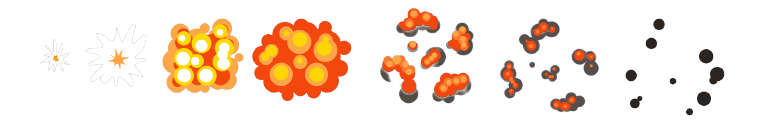
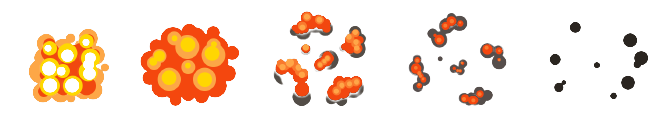
Agregue animacion de colision

diff --git a/css/styles.css b/css/styles.css
@@ -267,6 +267,22 @@ font-family: Arial, Helvetica, sans-serif;
   100% { background-position: -256px }
 } */
 
+.collision {
+  width:132.4px;
+  height:129px;
+  margin:auto;  
+  background:url('../sources/collision.png'); 
+  animation:collision .7s steps(5) infinite;
+  
+}
+
+@keyframes collision {
+ 0% {background-position: 0;} 
+
+ 100% {background-position: -662px;
+   display: hidden; } 
+} 
+
 .hidden{
   display:hidden;
 }
